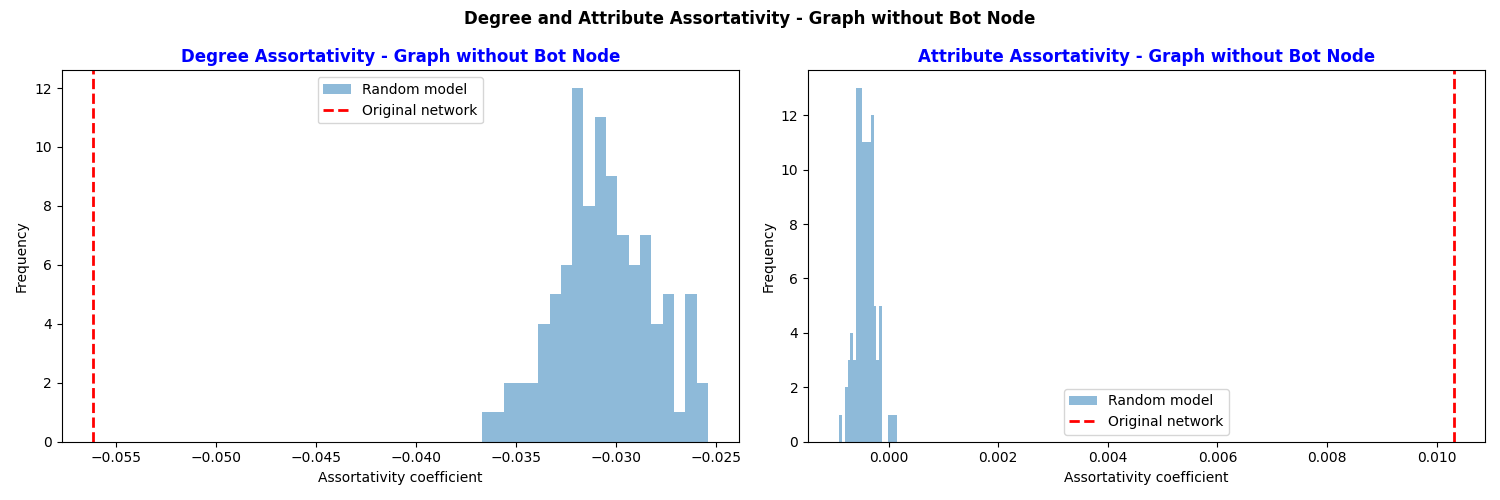
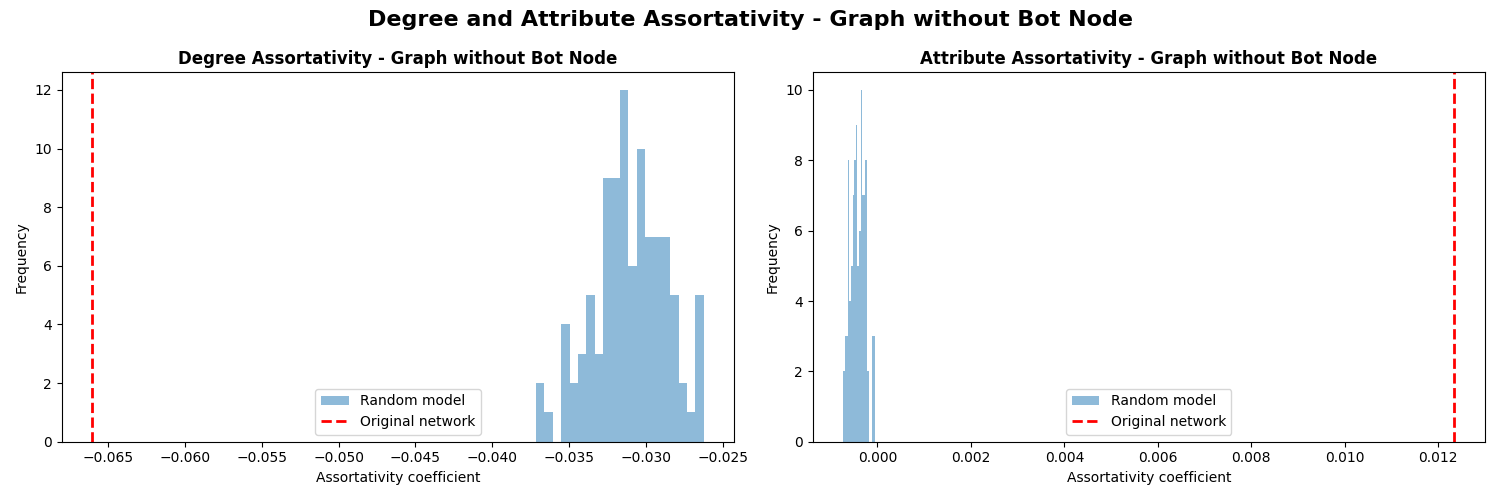
added text and new image network

diff --git a/docs/network.md b/docs/network.md
@@ -3,14 +3,16 @@ layout: default
 ---
 
 # Network
-
 In this section we will go over the created networks and in depth analysis of the GitHub contributor network and based on the analysis draw conclusions.
 
 Based on the data collected of the GitHub contributations (To read about data collection details click here: [Data](data.md)) a graph was constructed. To ensure a very informative network we ensured that all ensured that an edge only was created people had collaborated on multiple repositories. This ensures that the relationship between the persons is stronger and provides a less noisy understanding of the graph. Each person in the graph was given their company they worked for as attribute if it was listed. 
 
 ## Basic Network Analysis 
+The constructed network now consists of 22318 GitHub users and 122304 collaboration links between the users with an average degree of almost 11. The network is not fully connected so there are small islands of users who has no connection to the largest component. The user with the most different collaborations is dependabot with 2344 unique contributor connections, which is extremely high as the second largest is TensorFlow at 500. 
 
-The dependabot is a bot provided by git to help git repositories with varias things such as, **dependency dpdates**, **Security Vulnerabilities** and **Testing**. This analysis helped us indecate how very popular this tool is for many of the top repositories, however as this network analysis want to investigate the real git landscape and potetial commication pipelines.
+The dependabot is a bot provided by GitHub to help GitHub repositories with varias things such as, **dependency dpdates**, **Security Vulnerabilities** and **Testing**. This simple analysis helped us indecate how very popular this tool is for many of the top repositories, however as this network analysis want to investigate the real git contributor landscape for the best rated repositories and potetial commication pipelines.
+
+When removing the dependabot we get a network containing 22317 users, 119960 collaborations. The network is not very dense, and the network now consists of 370 components which is almost doubled. This means that only the dependabot connected multiple nodes indirectly, furthermore we also have 193 isolated nodes which means that these users most likely only have been contributing to two repositories where the only consisting of user was dependabot therefore not having a direct connection to other real users. However, the largest component of the network is still almost consisting of 96% of the nodes, this giant component suggests a interconnective network meaning a broad collaboration diversity. Even though the average degree is almost 11 in the network but approximately 90% of the users only have 1 edge, illustrating the degree distribution being a heavy tail distribution. This means as the [Figure 1](#fig1) shows that we have some hubs potentially organization accounts or extremely active developers.
 
 To emphasize the how the dependabot is influencing the network structure and the size of the hub, we present a figure containing both the network structure with and without the dependabot. To further illustrate how the dependabot corrupt the network, the size of nodes are directly related to the degree of the node. 
 
@@ -24,4 +26,12 @@ To emphasize the how the dependabot is influencing the network structure and the
 <br>  
 </figure>
 
-[Figure 1](#fig1) illustration highlights that this bot node is clearly an outlier. This makes sense because it's a GitHub-provided bot designed to help repositories with tasks like monitoring for security vulnerabilities, which is especially beneficial for large companies that own many of these great repositories.
+[Figure 1](#fig1) highlights that this bot node is clearly an outlier. This makes sense because it's a GitHub-provided bot designed to help repositories with tasks like monitoring for security vulnerabilities, which is especially beneficial for large companies that own many of these great repositories. Furthermore we see the hubs created to the different clusters in the graph.
+
+## Advanced Graph Analysis
+To investigate how these very active developers or organizational accounts are connected two assortativity analysis where conducted. The degree assortativity is -0.05 as it is close to 0 it alludes to the network being close to randomly connected between big and small nodes. The attribute assortativity coefficient when performed for company is also 0.01 which alludes to random connections accross companies, however almost half of the users had not specified an organization which of cause pushes the assortativity towards 0. 
+
+Cluster coefficient 0.2 which is a low coefficient which alludes to a hierarchical structure, this is typical in professional networks as we have organizational hubs with a lot of connected employees. 
+
+
+
